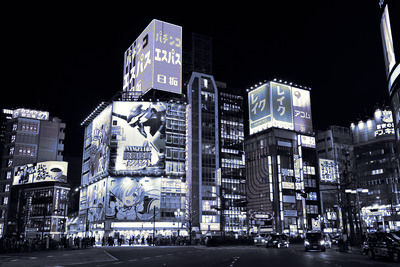
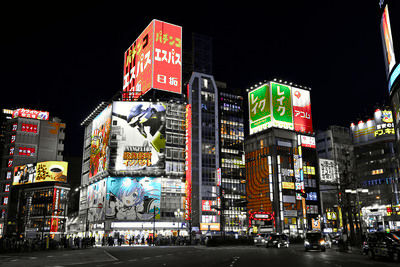
fix: change color mapping

diff --git a/src/main.rs b/src/main.rs
@@ -90,8 +90,8 @@ struct Cli {
     format: OutputFormat,
     #[arg(short = 'q', long, value_parser = clap::value_parser!(u8).range(1..=100))]
     quality: Option<u8>,
-    #[arg(short = 'a', long, help = "Include palette accent colors")]
-    accents: bool,
+    #[arg(long, help = "Exclude the palette's accent colors")]
+    neutral_only: bool,
     #[arg(
         long,
         default_value_t = 1.0,
@@ -192,7 +192,7 @@ fn select_palette(cli: &Cli) -> Result<SelectedPalette, String> {
             fs::read_to_string(path).map_err(|error| format!("{}: {error}", path.display()))?;
         let mut palette =
             parse_custom_palette(&text).map_err(|error| format!("{}: {error}", path.display()))?;
-        if cli.accents {
+        if !cli.neutral_only {
             palette.colors.extend(palette.accents);
         }
         return Ok(SelectedPalette {
@@ -203,7 +203,7 @@ fn select_palette(cli: &Cli) -> Result<SelectedPalette, String> {
     let theme = cli.theme.expect("clap requires a theme or palette");
     Ok(SelectedPalette {
         name: theme.name().to_owned(),
-        colors: recolor::built_in_colors(theme, cli.accents),
+        colors: recolor::built_in_colors(theme, cli.neutral_only),
     })
 }
 
@@ -234,6 +234,7 @@ fn already_recolored(path: &Path, palette_name: &str) -> bool {
                 .any(|theme| {
                     stem.ends_with(&format!("-{theme}"))
                         || stem.ends_with(&format!("-{theme}-accent"))
+                        || stem.ends_with(&format!("-{theme}-neutral"))
                 })
         })
 }
@@ -278,20 +279,20 @@ fn output_path(
     normalize_name: bool,
     format: OutputFormat,
     palette_name: &str,
-    accents: bool,
+    neutral_only: bool,
     mix: f32,
 ) -> Result<PathBuf, String> {
     let stem = input
         .file_stem()
         .and_then(|s| s.to_str())
         .ok_or_else(|| format!("invalid input name: {}", input.display()))?;
-    let accent_suffix = if accents { "-accent" } else { "" };
+    let neutral_suffix = if neutral_only { "-neutral" } else { "" };
     let mix_suffix = if mix == 1.0 {
         String::new()
     } else {
         format!("-mix-{mix}")
     };
-    let stem = format!("{stem}-{palette_name}{accent_suffix}{mix_suffix}");
+    let stem = format!("{stem}-{palette_name}{neutral_suffix}{mix_suffix}");
     let name = if normalize_name {
         normalized(&stem)?
     } else {
@@ -333,7 +334,7 @@ fn jobs(
     format: OutputFormat,
     overwrite: bool,
     palette_name: &str,
-    accents: bool,
+    neutral_only: bool,
     mix: f32,
 ) -> Result<Vec<Job>, String> {
     let mut paths = Vec::new();
@@ -362,7 +363,14 @@ fn jobs(
         if !supported(&input) {
             return Err(format!("unsupported file: {}", input.display()));
         }
-        let output = output_path(&input, normalize_name, format, palette_name, accents, mix)?;
+        let output = output_path(
+            &input,
+            normalize_name,
+            format,
+            palette_name,
+            neutral_only,
+            mix,
+        )?;
         if !outputs.insert(output.clone()) {
             return Err(format!(
                 "inputs resolve to the same output: {}",
@@ -389,7 +397,7 @@ fn run(cli: Cli) -> Result<(), String> {
         cli.format,
         cli.overwrite,
         &palette.name,
-        cli.accents,
+        cli.neutral_only,
         cli.mix,
     )? {
         let input_size = fs::metadata(&job.input)
@@ -507,7 +515,7 @@ mod tests {
                 1.0,
             )
             .unwrap(),
-            PathBuf::from("foo-everforest-dark-medium-accent.jpg")
+            PathBuf::from("foo-everforest-dark-medium-neutral.jpg")
         );
         assert_eq!(
             output_path(
@@ -531,7 +539,7 @@ mod tests {
                 0.5,
             )
             .unwrap(),
-            PathBuf::from("foo-everforest-dark-medium-accent-mix-0-5.jpg")
+            PathBuf::from("foo-everforest-dark-medium-neutral-mix-0-5.jpg")
         );
     }
 

diff --git a/src/recolor.rs b/src/recolor.rs
@@ -97,12 +97,12 @@ fn palette(theme: Theme) -> &'static ThemePalette {
     }
 }
 
-pub fn built_in_colors(theme: Theme, accents: bool) -> Vec<u32> {
+pub fn built_in_colors(theme: Theme, neutral_only: bool) -> Vec<u32> {
     let palette = palette(theme);
     palette
         .neutral
         .iter()
-        .chain(if accents { palette.accents } else { &[] })
+        .chain(if neutral_only { &[] } else { palette.accents })
         .copied()
         .collect()
 }
@@ -124,9 +124,7 @@ fn nearest(color: Oklab, colors: &[Oklab]) -> Oklab {
     *colors
         .iter()
         .min_by(|a, b| {
-            let distance = |x: &Oklab| {
-                (color.l - x.l).powi(2) + (color.a - x.a).powi(2) + (color.b - x.b).powi(2)
-            };
+            let distance = |x: &Oklab| (color.a - x.a).powi(2) + (color.b - x.b).powi(2);
             distance(a).total_cmp(&distance(b))
         })
         .expect("palette is not empty")
@@ -220,20 +218,20 @@ mod tests {
     use image::GenericImageView;
 
     #[test]
-    fn nearest_selects_expected_color() {
-        let colors = [Oklab::new(0.1, 0.0, 0.0), Oklab::new(0.8, 0.2, -0.1)];
-        assert_eq!(nearest(Oklab::new(0.75, 0.18, -0.08), &colors), colors[1]);
+    fn nearest_ignores_lightness() {
+        let colors = [Oklab::new(0.1, 0.18, -0.08), Oklab::new(0.75, 0.0, 0.0)];
+        assert_eq!(nearest(Oklab::new(0.75, 0.18, -0.08), &colors), colors[0]);
     }
 
     #[test]
-    fn accents_are_opt_in() {
+    fn all_colors_are_used_by_default() {
         assert_eq!(
             built_in_colors(Theme::EverforestDarkMedium, false).len(),
-            11
+            EVERFOREST.neutral.len() + EVERFOREST.accents.len()
         );
         assert_eq!(
             built_in_colors(Theme::EverforestDarkMedium, true).len(),
-            EVERFOREST.neutral.len() + EVERFOREST.accents.len()
+            EVERFOREST.neutral.len()
         );
     }
 

diff --git a/README.md b/README.md
@@ -11,26 +11,26 @@ Built-in themes: `everforest-dark-medium`, `catppuccin-mocha`, `tokyo-night`, `g
 ## Examples
 
 <table>
-<tr><th>Original</th><th>Everforest Dark Medium</th><th>Everforest Dark Medium (accents)</th></tr>
-<tr><td><img src="examples-400/DSC_1255.JPG" width="400" alt="Original DSC 1255"></td><td><img src="examples-400/dsc-1255-everforest-dark-medium.jpg" width="400" alt="Everforest DSC 1255"></td><td><img src="examples-400/dsc-1255-everforest-dark-medium-accent.jpg" width="400" alt="Everforest accent DSC 1255"></td></tr>
-<tr><td><img src="examples-400/DSC_1261.JPG" width="400" alt="Original DSC 1261"></td><td><img src="examples-400/dsc-1261-everforest-dark-medium.jpg" width="400" alt="Everforest DSC 1261"></td><td><img src="examples-400/dsc-1261-everforest-dark-medium-accent.jpg" width="400" alt="Everforest accent DSC 1261"></td></tr>
-<tr><td><img src="examples-400/DSC_1275.JPG" width="400" alt="Original DSC 1275"></td><td><img src="examples-400/dsc-1275-everforest-dark-medium.jpg" width="400" alt="Everforest DSC 1275"></td><td><img src="examples-400/dsc-1275-everforest-dark-medium-accent.jpg" width="400" alt="Everforest accent DSC 1275"></td></tr>
-<tr><td><img src="examples-400/DSC_1321.JPG" width="400" alt="Original DSC 1321"></td><td><img src="examples-400/dsc-1321-everforest-dark-medium.jpg" width="400" alt="Everforest DSC 1321"></td><td><img src="examples-400/dsc-1321-everforest-dark-medium-accent.jpg" width="400" alt="Everforest accent DSC 1321"></td></tr>
-<tr><td><img src="examples-400/DSC_1340.JPG" width="400" alt="Original DSC 1340"></td><td><img src="examples-400/dsc-1340-everforest-dark-medium.jpg" width="400" alt="Everforest DSC 1340"></td><td><img src="examples-400/dsc-1340-everforest-dark-medium-accent.jpg" width="400" alt="Everforest accent DSC 1340"></td></tr>
-<tr><td><img src="examples-400/DSC_1344.JPG" width="400" alt="Original DSC 1344"></td><td><img src="examples-400/dsc-1344-everforest-dark-medium.jpg" width="400" alt="Everforest DSC 1344"></td><td><img src="examples-400/dsc-1344-everforest-dark-medium-accent.jpg" width="400" alt="Everforest accent DSC 1344"></td></tr>
-<tr><td><img src="examples-400/DSC_1383.JPG" width="400" alt="Original DSC 1383"></td><td><img src="examples-400/dsc-1383-everforest-dark-medium.jpg" width="400" alt="Everforest DSC 1383"></td><td><img src="examples-400/dsc-1383-everforest-dark-medium-accent.jpg" width="400" alt="Everforest accent DSC 1383"></td></tr>
-<tr><td><img src="examples-400/DSC_1484.JPG" width="400" alt="Original DSC 1484"></td><td><img src="examples-400/dsc-1484-everforest-dark-medium.jpg" width="400" alt="Everforest DSC 1484"></td><td><img src="examples-400/dsc-1484-everforest-dark-medium-accent.jpg" width="400" alt="Everforest accent DSC 1484"></td></tr>
-<tr><td><img src="examples-400/DSC_1571.JPG" width="400" alt="Original DSC 1571"></td><td><img src="examples-400/dsc-1571-everforest-dark-medium.jpg" width="400" alt="Everforest DSC 1571"></td><td><img src="examples-400/dsc-1571-everforest-dark-medium-accent.jpg" width="400" alt="Everforest accent DSC 1571"></td></tr>
-<tr><td><img src="examples-400/DSC_1629.JPG" width="400" alt="Original DSC 1629"></td><td><img src="examples-400/dsc-1629-everforest-dark-medium.jpg" width="400" alt="Everforest DSC 1629"></td><td><img src="examples-400/dsc-1629-everforest-dark-medium-accent.jpg" width="400" alt="Everforest accent DSC 1629"></td></tr>
-<tr><td><img src="examples-400/DSC_1657.JPG" width="400" alt="Original DSC 1657"></td><td><img src="examples-400/dsc-1657-everforest-dark-medium.jpg" width="400" alt="Everforest DSC 1657"></td><td><img src="examples-400/dsc-1657-everforest-dark-medium-accent.jpg" width="400" alt="Everforest accent DSC 1657"></td></tr>
-<tr><td><img src="examples-400/DSC_1719.JPG" width="400" alt="Original DSC 1719"></td><td><img src="examples-400/dsc-1719-everforest-dark-medium.jpg" width="400" alt="Everforest DSC 1719"></td><td><img src="examples-400/dsc-1719-everforest-dark-medium-accent.jpg" width="400" alt="Everforest accent DSC 1719"></td></tr>
-<tr><td><img src="examples-400/DSC_1806.JPG" width="400" alt="Original DSC 1806"></td><td><img src="examples-400/dsc-1806-everforest-dark-medium.jpg" width="400" alt="Everforest DSC 1806"></td><td><img src="examples-400/dsc-1806-everforest-dark-medium-accent.jpg" width="400" alt="Everforest accent DSC 1806"></td></tr>
-<tr><td><img src="examples-400/DSC_1812.JPG" width="400" alt="Original DSC 1812"></td><td><img src="examples-400/dsc-1812-everforest-dark-medium.jpg" width="400" alt="Everforest DSC 1812"></td><td><img src="examples-400/dsc-1812-everforest-dark-medium-accent.jpg" width="400" alt="Everforest accent DSC 1812"></td></tr>
-<tr><td><img src="examples-400/DSC_1915.JPG" width="400" alt="Original DSC 1915"></td><td><img src="examples-400/dsc-1915-everforest-dark-medium.jpg" width="400" alt="Everforest DSC 1915"></td><td><img src="examples-400/dsc-1915-everforest-dark-medium-accent.jpg" width="400" alt="Everforest accent DSC 1915"></td></tr>
-<tr><td><img src="examples-400/DSC_2080.JPG" width="400" alt="Original DSC 2080"></td><td><img src="examples-400/dsc-2080-everforest-dark-medium.jpg" width="400" alt="Everforest DSC 2080"></td><td><img src="examples-400/dsc-2080-everforest-dark-medium-accent.jpg" width="400" alt="Everforest accent DSC 2080"></td></tr>
-<tr><td><img src="examples-400/DSC_2311.JPG" width="400" alt="Original DSC 2311"></td><td><img src="examples-400/dsc-2311-everforest-dark-medium.jpg" width="400" alt="Everforest DSC 2311"></td><td><img src="examples-400/dsc-2311-everforest-dark-medium-accent.jpg" width="400" alt="Everforest accent DSC 2311"></td></tr>
-<tr><td><img src="examples-400/DSC_2316.JPG" width="400" alt="Original DSC 2316"></td><td><img src="examples-400/dsc-2316-everforest-dark-medium.jpg" width="400" alt="Everforest DSC 2316"></td><td><img src="examples-400/dsc-2316-everforest-dark-medium-accent.jpg" width="400" alt="Everforest accent DSC 2316"></td></tr>
-<tr><td><img src="examples-400/DSC_2357.JPG" width="400" alt="Original DSC 2357"></td><td><img src="examples-400/dsc-2357-everforest-dark-medium.jpg" width="400" alt="Everforest DSC 2357"></td><td><img src="examples-400/dsc-2357-everforest-dark-medium-accent.jpg" width="400" alt="Everforest accent DSC 2357"></td></tr>
+<tr><th>Original</th><th>Everforest Dark Medium</th><th>Everforest Dark Medium (neutral only)</th></tr>
+<tr><td><img src="examples-400/DSC_1255.JPG" width="400" alt="Original DSC 1255"></td><td><img src="examples-400/dsc-1255-everforest-dark-medium.jpg" width="400" alt="Everforest DSC 1255"></td><td><img src="examples-400/dsc-1255-everforest-dark-medium-neutral.jpg" width="400" alt="Everforest neutral-only DSC 1255"></td></tr>
+<tr><td><img src="examples-400/DSC_1261.JPG" width="400" alt="Original DSC 1261"></td><td><img src="examples-400/dsc-1261-everforest-dark-medium.jpg" width="400" alt="Everforest DSC 1261"></td><td><img src="examples-400/dsc-1261-everforest-dark-medium-neutral.jpg" width="400" alt="Everforest neutral-only DSC 1261"></td></tr>
+<tr><td><img src="examples-400/DSC_1275.JPG" width="400" alt="Original DSC 1275"></td><td><img src="examples-400/dsc-1275-everforest-dark-medium.jpg" width="400" alt="Everforest DSC 1275"></td><td><img src="examples-400/dsc-1275-everforest-dark-medium-neutral.jpg" width="400" alt="Everforest neutral-only DSC 1275"></td></tr>
+<tr><td><img src="examples-400/DSC_1321.JPG" width="400" alt="Original DSC 1321"></td><td><img src="examples-400/dsc-1321-everforest-dark-medium.jpg" width="400" alt="Everforest DSC 1321"></td><td><img src="examples-400/dsc-1321-everforest-dark-medium-neutral.jpg" width="400" alt="Everforest neutral-only DSC 1321"></td></tr>
+<tr><td><img src="examples-400/DSC_1340.JPG" width="400" alt="Original DSC 1340"></td><td><img src="examples-400/dsc-1340-everforest-dark-medium.jpg" width="400" alt="Everforest DSC 1340"></td><td><img src="examples-400/dsc-1340-everforest-dark-medium-neutral.jpg" width="400" alt="Everforest neutral-only DSC 1340"></td></tr>
+<tr><td><img src="examples-400/DSC_1344.JPG" width="400" alt="Original DSC 1344"></td><td><img src="examples-400/dsc-1344-everforest-dark-medium.jpg" width="400" alt="Everforest DSC 1344"></td><td><img src="examples-400/dsc-1344-everforest-dark-medium-neutral.jpg" width="400" alt="Everforest neutral-only DSC 1344"></td></tr>
+<tr><td><img src="examples-400/DSC_1383.JPG" width="400" alt="Original DSC 1383"></td><td><img src="examples-400/dsc-1383-everforest-dark-medium.jpg" width="400" alt="Everforest DSC 1383"></td><td><img src="examples-400/dsc-1383-everforest-dark-medium-neutral.jpg" width="400" alt="Everforest neutral-only DSC 1383"></td></tr>
+<tr><td><img src="examples-400/DSC_1484.JPG" width="400" alt="Original DSC 1484"></td><td><img src="examples-400/dsc-1484-everforest-dark-medium.jpg" width="400" alt="Everforest DSC 1484"></td><td><img src="examples-400/dsc-1484-everforest-dark-medium-neutral.jpg" width="400" alt="Everforest neutral-only DSC 1484"></td></tr>
+<tr><td><img src="examples-400/DSC_1571.JPG" width="400" alt="Original DSC 1571"></td><td><img src="examples-400/dsc-1571-everforest-dark-medium.jpg" width="400" alt="Everforest DSC 1571"></td><td><img src="examples-400/dsc-1571-everforest-dark-medium-neutral.jpg" width="400" alt="Everforest neutral-only DSC 1571"></td></tr>
+<tr><td><img src="examples-400/DSC_1629.JPG" width="400" alt="Original DSC 1629"></td><td><img src="examples-400/dsc-1629-everforest-dark-medium.jpg" width="400" alt="Everforest DSC 1629"></td><td><img src="examples-400/dsc-1629-everforest-dark-medium-neutral.jpg" width="400" alt="Everforest neutral-only DSC 1629"></td></tr>
+<tr><td><img src="examples-400/DSC_1657.JPG" width="400" alt="Original DSC 1657"></td><td><img src="examples-400/dsc-1657-everforest-dark-medium.jpg" width="400" alt="Everforest DSC 1657"></td><td><img src="examples-400/dsc-1657-everforest-dark-medium-neutral.jpg" width="400" alt="Everforest neutral-only DSC 1657"></td></tr>
+<tr><td><img src="examples-400/DSC_1719.JPG" width="400" alt="Original DSC 1719"></td><td><img src="examples-400/dsc-1719-everforest-dark-medium.jpg" width="400" alt="Everforest DSC 1719"></td><td><img src="examples-400/dsc-1719-everforest-dark-medium-neutral.jpg" width="400" alt="Everforest neutral-only DSC 1719"></td></tr>
+<tr><td><img src="examples-400/DSC_1806.JPG" width="400" alt="Original DSC 1806"></td><td><img src="examples-400/dsc-1806-everforest-dark-medium.jpg" width="400" alt="Everforest DSC 1806"></td><td><img src="examples-400/dsc-1806-everforest-dark-medium-neutral.jpg" width="400" alt="Everforest neutral-only DSC 1806"></td></tr>
+<tr><td><img src="examples-400/DSC_1812.JPG" width="400" alt="Original DSC 1812"></td><td><img src="examples-400/dsc-1812-everforest-dark-medium.jpg" width="400" alt="Everforest DSC 1812"></td><td><img src="examples-400/dsc-1812-everforest-dark-medium-neutral.jpg" width="400" alt="Everforest neutral-only DSC 1812"></td></tr>
+<tr><td><img src="examples-400/DSC_1915.JPG" width="400" alt="Original DSC 1915"></td><td><img src="examples-400/dsc-1915-everforest-dark-medium.jpg" width="400" alt="Everforest DSC 1915"></td><td><img src="examples-400/dsc-1915-everforest-dark-medium-neutral.jpg" width="400" alt="Everforest neutral-only DSC 1915"></td></tr>
+<tr><td><img src="examples-400/DSC_2080.JPG" width="400" alt="Original DSC 2080"></td><td><img src="examples-400/dsc-2080-everforest-dark-medium.jpg" width="400" alt="Everforest DSC 2080"></td><td><img src="examples-400/dsc-2080-everforest-dark-medium-neutral.jpg" width="400" alt="Everforest neutral-only DSC 2080"></td></tr>
+<tr><td><img src="examples-400/DSC_2311.JPG" width="400" alt="Original DSC 2311"></td><td><img src="examples-400/dsc-2311-everforest-dark-medium.jpg" width="400" alt="Everforest DSC 2311"></td><td><img src="examples-400/dsc-2311-everforest-dark-medium-neutral.jpg" width="400" alt="Everforest neutral-only DSC 2311"></td></tr>
+<tr><td><img src="examples-400/DSC_2316.JPG" width="400" alt="Original DSC 2316"></td><td><img src="examples-400/dsc-2316-everforest-dark-medium.jpg" width="400" alt="Everforest DSC 2316"></td><td><img src="examples-400/dsc-2316-everforest-dark-medium-neutral.jpg" width="400" alt="Everforest neutral-only DSC 2316"></td></tr>
+<tr><td><img src="examples-400/DSC_2357.JPG" width="400" alt="Original DSC 2357"></td><td><img src="examples-400/dsc-2357-everforest-dark-medium.jpg" width="400" alt="Everforest DSC 2357"></td><td><img src="examples-400/dsc-2357-everforest-dark-medium-neutral.jpg" width="400" alt="Everforest neutral-only DSC 2357"></td></tr>
 </table>
 
 ### Built-in palette comparison (`--mix 0.9`)
@@ -66,7 +66,7 @@ paletteer [OPTIONS] <--theme <THEME>|--theme-file <FILE>> <INPUT>...
 | `-n`, `--normalize-name` | Optional; off | Lowercases the generated output stem and restricts it to `a-z`, `0-9`, and `-`. | Produce predictable, shell-friendly filenames from names containing spaces, punctuation, or uppercase characters. |
 | `-f`, `--format <FORMAT>` | Optional; `png` | Selects `png`, `webp`, or `jpg` output. PNG is lossless; JPEG discards alpha. | Choose lossless output, smaller WebP files, or broadly compatible JPEG files. |
 | `-q`, `--quality <1-100>` | Optional; `80` for WebP/JPEG | Sets lossy encoding quality. Using it with PNG is an error. | Trade output size for visual quality when writing WebP or JPEG. |
-| `-a`, `--accents` | Optional; off | Includes the palette's accent colors and adds `-accent` to the output filename. | Retain more colorful reds, oranges, yellows, greens, blues, and purples. |
+| `--neutral-only` | Optional; off | Excludes accent colors and adds `-neutral` to the output filename. | Produce a deliberately subdued, near-monochrome result. |
 | `--mix <0-1>` | Optional; `1` | Blends the original and remapped Oklab color while preserving source lightness. Non-default values add `-mix-<value>` to the output filename. | Use `0` for the original colors, an intermediate value such as `0.5` for a subtler palette tint, or `1` for the full remap. |
 | `-o`, `--overwrite` | Optional; off | Replaces an existing output only after the new image encodes successfully. | Regenerate images without deleting old outputs manually. |
 | `-h`, `--help` | Optional | Prints the built-in CLI reference. | Check available arguments from the installed binary. |
@@ -83,8 +83,8 @@ accents = ["#e67e80", "#a7c080", "#7fbbb3"]
 
 `name` becomes the output filename suffix and must contain only lowercase
 letters, digits, and single hyphens. `colors` must contain at least one
-`#RRGGBB` color. `accents` is optional and participates only with
-`--accents`.
+`#RRGGBB` color. `accents` is optional and participates by default; use
+`--neutral-only` to exclude it.
 
 ```sh
 paletteer --theme-file examples/forest-dusk.toml --mix 0.9 wallpaper.jpg
@@ -92,7 +92,7 @@ paletteer --theme-file examples/forest-dusk.toml --mix 0.9 wallpaper.jpg
 
 Quote recursive globs for consistent behavior across shells. Files whose names
 already carry a built-in or currently selected custom palette suffix
-(optionally followed by `-accent` and `-mix-<value>`) are skipped to prevent
+(optionally followed by `-neutral` and `-mix-<value>`) are skipped to prevent
 repeat recoloring.
 
 ## Acknoledgements

diff --git a/PALETTES.md b/PALETTES.md
@@ -14,7 +14,8 @@ Paletteer supports these palettes:
 
 The color names and values below come from the [official Everforest palette](https://github.com/sainnhe/everforest/blob/master/palette.md). Paletteer uses these colors to select hue and chroma; it preserves the source image's lightness.
 
-Neutral colors are used by default. Accents require `--accents` / `-a`.
+Neutral and accent colors are used by default. `--neutral-only` excludes the
+accent colors.
 
 ## Custom palette files
 
@@ -27,8 +28,8 @@ accents = ["#e67e80", "#a7c080", "#7fbbb3"]
 ```
 
 `name` must contain only `a-z`, `0-9`, and single hyphens. `colors` is a
-non-empty array of `#RRGGBB` strings. `accents` is optional and is enabled
-with `--accents`.
+non-empty array of `#RRGGBB` strings. `accents` is optional and included by
+default; `--neutral-only` excludes it.
 
 ## everforest-dark-medium
 
